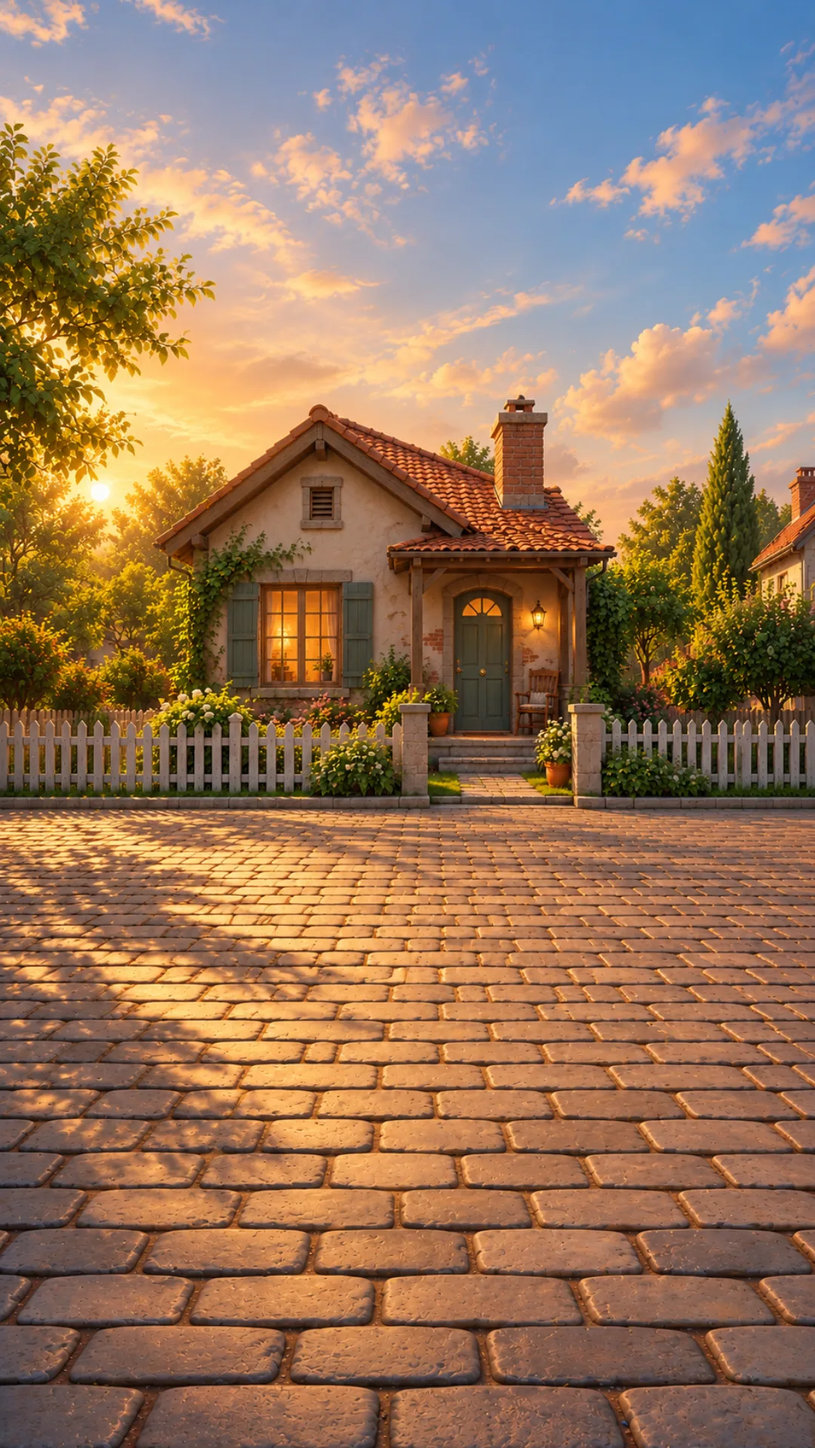
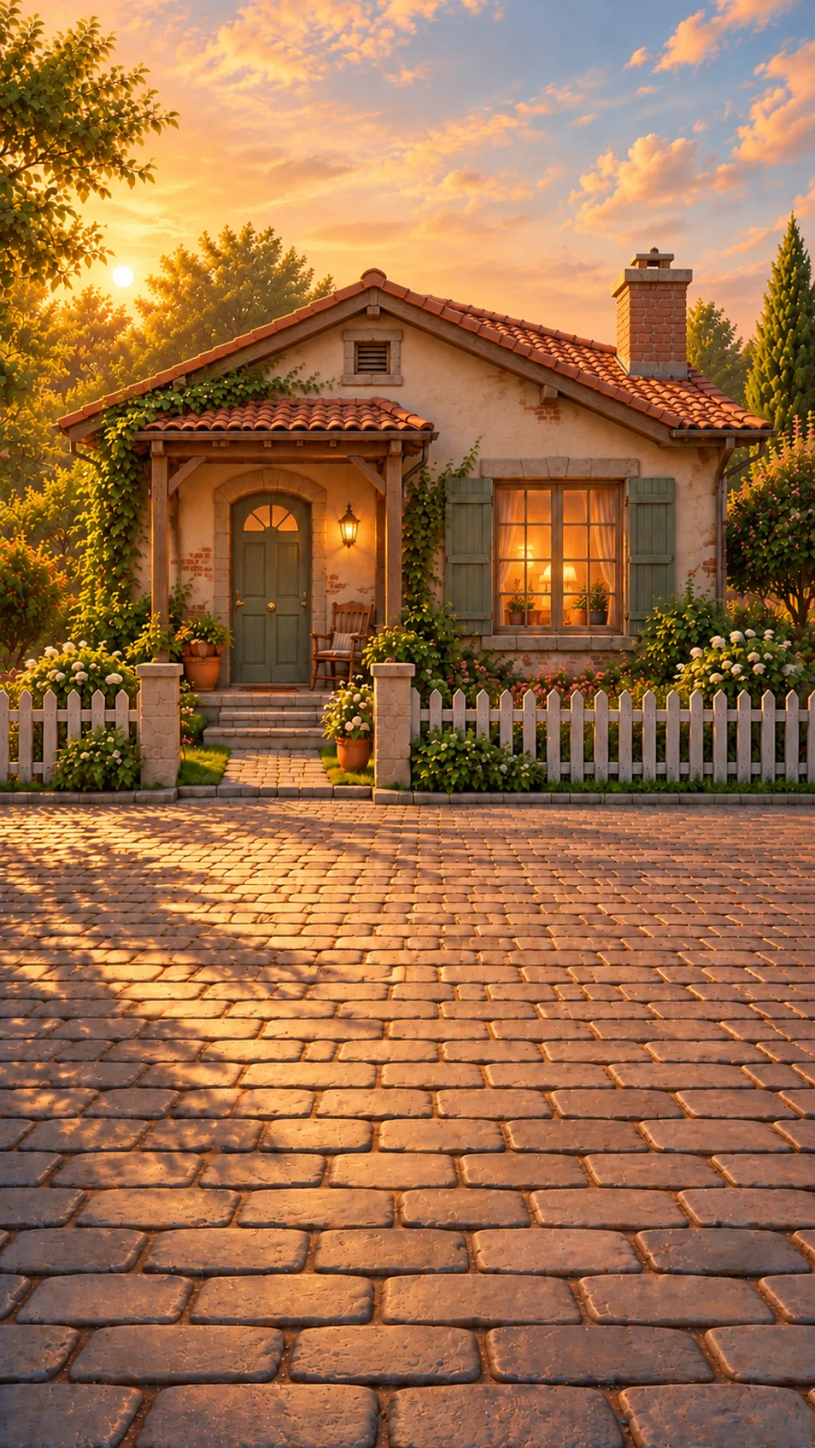
v2: owning a home pays off, the first one comes with the Millionaire ceremony - Living in a home you own adds +8% on top of its tier (as good as renting   the next one up, never better). Rent pays back three times faster ($1M   home in 4h, was 12h): rent was 1% of income and the bot never bought the

diff --git a/src/game/ui/shop/HousingPanel.tsx b/src/game/ui/shop/HousingPanel.tsx
@@ -1,6 +1,6 @@
 import { Home, KeyRound, Lock } from 'lucide-react';
-import { HOUSES } from '../../core/config/housing';
-import { autoIncomePerSecond, globalMultiplier } from '../../core/formulas';
+import { HOUSES, OWNER_HOME_BONUS } from '../../core/config/housing';
+import { autoIncomePerSecond, globalMultiplier, homeBonus, rentPerSecond } from '../../core/formulas';
 import {
   currentHome,
   houseIndex,
@@ -18,8 +18,8 @@ import { Chip, GameButton, Panel, SectionLabel } from '../kit';
 import { Thumb } from './Thumb';
 
 // Homes tab: rent → buy → rent out (docs/game-design-v2.md §4.8). You live in one house; the next
-// one up is the dream; houses you own and left pay rent. Moving up needs the last vehicle of the home
-// you live in (core/state.ts moveUpNeedsVehicle).
+// one up is the dream; houses you own and left pay rent, and there is no moving back into them.
+// Moving up needs the last vehicle of the home you live in (core/state.ts moveUpNeedsVehicle).
 
 const UPCOMING_COUNT = 3;
 
@@ -37,6 +37,8 @@ export function HousingPanel({ onGoVehicles }: { onGoVehicles: () => void }) {
   const income = autoIncomePerSecond(game);
 
   const rent = (house: HouseDef) => perMonth(house.rentPerSecond * multiplier);
+  const ownsHome = ownsHouse(game, home.id);
+  const totalRent = rentPerSecond(game) * multiplier;
   const affordIn = (cost: number) =>
     game.cash < cost && income > 0
       ? t('common.affordIn', { duration: duration(Math.ceil((cost - game.cash) / income)) })
@@ -63,7 +65,7 @@ export function HousingPanel({ onGoVehicles }: { onGoVehicles: () => void }) {
             <SectionLabel>{t('home.current')}</SectionLabel>
             <p className="v2-display text-[17px] leading-tight text-indigo-950 px-1">{name('lifestyle', home)}</p>
             <p className="text-[11px] font-bold text-violet-600 px-1">
-              {t('home.livingBonus', { percent: percent(home.homeBonus) })}
+              {t('home.livingBonus', { percent: percent(homeBonus(game)) })}
             </p>
           </div>
           {renting && (
@@ -72,7 +74,7 @@ export function HousingPanel({ onGoVehicles }: { onGoVehicles: () => void }) {
               {t('home.renting')}
             </Chip>
           )}
-          {ownsHouse(game, home.id) && (
+          {ownsHome && (
             <Chip tone="buy">
               <Home className="w-3 h-3" />
               {t('home.owned')}
@@ -91,6 +93,8 @@ export function HousingPanel({ onGoVehicles }: { onGoVehicles: () => void }) {
               <span className="v2-display text-[14px] tabular-nums">{money(homePrice)}</span>
             </GameButton>
             <p className="text-[11px] font-bold text-slate-500 text-center -mt-1">
+              {t('home.ownerBonus', { percent: percent(OWNER_HOME_BONUS) })}
+              {' · '}
               {t('home.depositCounted', { amount: money(home.moveInCost) })}
             </p>
           </>
@@ -109,7 +113,7 @@ export function HousingPanel({ onGoVehicles }: { onGoVehicles: () => void }) {
               <div className="flex-1 min-w-0">
                 <p className="v2-display text-xl leading-tight text-indigo-950">{name('lifestyle', next)}</p>
                 <p className="text-[12px] font-bold text-violet-600">
-                  {t('home.bonusChange', { percent: percent(home.homeBonus), next: percent(next.homeBonus) })}
+                  {t('home.bonusChange', { percent: percent(homeBonus(game)), next: percent(next.homeBonus) })}
                 </p>
               </div>
             </div>
@@ -136,7 +140,9 @@ export function HousingPanel({ onGoVehicles }: { onGoVehicles: () => void }) {
                 disabled={game.cash < nextPrice}
                 className="min-h-11 -mt-1 py-2 px-4 flex items-center justify-between"
               >
-                <span className="v2-display text-[14px]">{t('home.buyMove')}</span>
+                <span className="v2-display text-[14px]">
+                  {t('home.buyMove')} · +{percent(next.homeBonus + OWNER_HOME_BONUS)}%
+                </span>
                 <span className="v2-display text-[14px] tabular-nums">{money(nextPrice)}</span>
               </GameButton>
             )}
@@ -152,7 +158,9 @@ export function HousingPanel({ onGoVehicles }: { onGoVehicles: () => void }) {
                 </span>
               </GameButton>
             ) : (
-              <p className="text-[11px] font-bold text-slate-500 text-center -mt-1">{rentHint ?? t('home.noRent')}</p>
+              <p className="text-[11px] font-bold text-slate-500 text-center -mt-1">
+                {rentHint ?? (ownsHome ? t('home.willRentOut', { amount: rent(home) }) : t('home.noRent'))}
+              </p>
             )}
           </div>
         </Panel>
@@ -187,7 +195,14 @@ export function HousingPanel({ onGoVehicles }: { onGoVehicles: () => void }) {
 
       {owned.length > 0 && (
         <>
-          <SectionLabel>{t('home.properties')}</SectionLabel>
+          <div className="flex items-end justify-between">
+            <SectionLabel>{t('home.properties')}</SectionLabel>
+            {totalRent > 0 && (
+              <p className="text-[11px] font-black text-emerald-600 px-1">
+                {t('home.totalRent', { amount: perMonth(totalRent) })}
+              </p>
+            )}
+          </div>
           <ul className="flex flex-col gap-2">
             {[...owned].reverse().map((house) => {
               const livingHere = house.id === game.home;
@@ -201,15 +216,6 @@ export function HousingPanel({ onGoVehicles }: { onGoVehicles: () => void }) {
                         {livingHere ? t('home.livingHere') : t('home.rentedOut', { amount: rent(house) })}
                       </p>
                     </div>
-                    {!livingHere && (
-                      <GameButton
-                        tone="soft"
-                        onClick={() => actions.moveHome(house.id)}
-                        className="shrink-0 min-h-11 px-3 v2-display text-[12px]"
-                      >
-                        {renting ? t('home.moveEndsLease') : t('home.moveHere')}
-                      </GameButton>
-                    )}
                   </Panel>
                 </li>
               );

diff --git a/src/game/core/config/housing.ts b/src/game/core/config/housing.ts
@@ -4,7 +4,8 @@ import type { HouseDef } from '../types';
 // and the home scene shows it (with your best vehicle parked out front). Twelve homes, each its own
 // place on screen (decided 2026-10-10; there were 25, many of them looking alike).
 // Renting costs a one-time move-in fee and no recurring rent, so net income never goes negative.
-// The house you live in gives a bonus by its tier; owned houses you moved out of pay rent.
+// The house you live in gives a bonus by its tier (a little more if it is yours); owned houses you
+// moved out of pay rent. You only ever move up: each home has its own vehicles parked out front.
 
 interface HomeSpec {
   name: string;
@@ -23,7 +24,7 @@ const HOMES: HomeSpec[] = [
   { name: 'Newer Rental Flat', image: `${SCENE}/home-5.webp`, moveInCost: 40_000 },
   { name: 'Flat in a Gated Complex', image: `${SCENE}/home-6.webp`, moveInCost: 240_000 },
   { name: 'First Home of Your Own', image: `${SCENE}/home-7.webp`, moveInCost: 650_000 },
-  { name: 'Suburban House with a Garden', image: `${SCENE}/home-8.webp`, moveInCost: 2.5e6 },
+  { name: 'Suburban House with a Garden', image: `${SCENE}/home-8.webp`, moveInCost: 9e6 },
   { name: 'Villa', image: `${SCENE}/home-9.webp`, moveInCost: 2e7 },
   { name: 'Lakeside Glass House', image: `${SCENE}/home-10.webp`, moveInCost: 2e8 },
   { name: 'Beachfront Estate', image: `${SCENE}/home-11.webp`, moveInCost: 2e9 },
@@ -40,11 +41,17 @@ export const BUY_PRICE_PER_MOVE_IN = 25;
 export const HOME_BONUS_PER_TIER = 0.08;
 
 /**
+ * Living in a house you own adds this on top: one tier's worth, so your own home is as good as
+ * renting the next one up and never better. Moving up stays worth it, and so does buying.
+ */
+export const OWNER_HOME_BONUS = HOME_BONUS_PER_TIER;
+
+/**
  * Rent payback (buy price / base rent) grows with price like business paybacks do:
  * hours = RENT_PAYBACK_HOURS_AT_1M × (price / $1M) ^ RENT_PAYBACK_EXPONENT. Tuned with `npm run sim`
  * so rent is a side income, never the main one.
  */
-export const RENT_PAYBACK_HOURS_AT_1M = 12;
+export const RENT_PAYBACK_HOURS_AT_1M = 4;
 export const RENT_PAYBACK_EXPONENT = 0.44;
 
 export function rentPaybackSeconds(buyCost: number) {
@@ -74,6 +81,14 @@ export const STARTING_HOME_ID = HOUSES[0].id;
  * further stays where they are.
  */
 export const CLASS_HOME_FLOOR = [0, 1, 3, 5, 6, 8, 9, 10];
+
+/**
+ * The Millionaire ceremony makes "First Home of Your Own" yours for free (decided 2026-10-12). Nobody
+ * can own a house before it: the cheapest costs more than a Millionaire has ever earned. Nobody can
+ * rent past it either: the way to the next home (pickup, this home's fee, its sedan, the $9M move-in
+ * fee) costs more than the $10M that makes a Millionaire. So the gift is always the home you live in.
+ */
+export const FIRST_OWNED_HOME = { classIndex: 4, houseIndex: 6 };
 
 /**
  * Saves from before 2026-10-10 had 25 houses (`house-1`…`house-25`); each maps to the new home

diff --git a/src/game/core/state.ts b/src/game/core/state.ts
@@ -1,7 +1,7 @@
 import { BUSINESSES } from './config/businesses';
 import { CAREERS } from './config/careers';
 import { STARTING_CASH } from './config/economy';
-import { CLASS_HOME_FLOOR, HOUSES, STARTING_HOME_ID } from './config/housing';
+import { CLASS_HOME_FLOOR, FIRST_OWNED_HOME, HOUSES, STARTING_HOME_ID } from './config/housing';
 import { LIFE_SECONDS } from './config/life';
 import { CLASS_OUTFIT_FLOOR, LIFESTYLE_ITEMS, OUTFITS, STARTING_LIFESTYLE_IDS, VEHICLES } from './config/lifestyle';
 import { ACTIVE_QUESTS, GENERATED_QUEST_SECONDS, QUESTS } from './config/quests';
@@ -71,7 +71,8 @@ export function earn(state: GameStateV2, amount: number): GameStateV2 {
 /**
  * A class-up gives what its story stands in: a hero still below the class's home moves there,
  * rented and free (CLASS_HOME_FLOOR), and gets the class's outfit and the ones before it
- * (CLASS_OUTFIT_FLOOR). Whoever bought ahead keeps what they have.
+ * (CLASS_OUTFIT_FLOOR). Whoever bought ahead keeps what they have. From Millionaire on, the first
+ * home of your own is yours (FIRST_OWNED_HOME).
  */
 export function applyClassFloors(state: GameStateV2): GameStateV2 {
   const homeFloor = CLASS_HOME_FLOOR[Math.min(state.classIndex, CLASS_HOME_FLOOR.length - 1)];
@@ -80,8 +81,15 @@ export function applyClassFloors(state: GameStateV2): GameStateV2 {
   const missing = OUTFITS.slice(0, outfitFloor + 1)
     .map((outfit) => outfit.id)
     .filter((id) => !state.lifestyleOwned.includes(id));
-  if (home === state.home && missing.length === 0) return state;
-  return { ...state, home, lifestyleOwned: [...state.lifestyleOwned, ...missing] };
+  const gift = HOUSES[FIRST_OWNED_HOME.houseIndex].id;
+  const gifted = state.classIndex >= FIRST_OWNED_HOME.classIndex && !state.homesOwned.includes(gift);
+  if (home === state.home && missing.length === 0 && !gifted) return state;
+  return {
+    ...state,
+    home,
+    homesOwned: gifted ? [...state.homesOwned, gift] : state.homesOwned,
+    lifestyleOwned: [...state.lifestyleOwned, ...missing],
+  };
 }
 
 function spend(state: GameStateV2, cost: number): GameStateV2 | null {
@@ -256,9 +264,12 @@ export function buyHome(state: GameStateV2, houseId: string): GameStateV2 | null
   return { ...paid, homesOwned: [...paid.homesOwned, houseId], home: movesIn ? houseId : paid.home };
 }
 
-/** Move into a house you own, for free. A home you leave keeps paying rent if you own it. */
+/**
+ * Move up into a house you own, for free. There is no moving back down: every home has its own
+ * vehicles out front, and a house you left stays rented out.
+ */
 export function moveHome(state: GameStateV2, houseId: string): GameStateV2 | null {
-  if (houseId === state.home || !ownsHouse(state, houseId)) return null;
+  if (houseIndex(houseId) <= houseIndex(state.home) || !ownsHouse(state, houseId)) return null;
   return { ...state, home: houseId };
 }
 

diff --git a/src/game/core/formulas.ts b/src/game/core/formulas.ts
@@ -16,7 +16,7 @@ import {
   TAP_INCOME_SECONDS,
 } from './config/economy';
 import { FETCH_BOTTLES } from './config/scene';
-import { HOUSES } from './config/housing';
+import { HOUSES, OWNER_HOME_BONUS } from './config/housing';
 import { LIFESTYLE_ITEMS } from './config/lifestyle';
 import { UPGRADES } from './config/upgrades';
 import type { BusinessDef, GameStateV2, IncomeMode, QuestDef } from './types';
@@ -88,9 +88,11 @@ export function careerBonus(state: GameStateV2) {
   return bonus;
 }
 
-/** Bonus from the house you live in (by its tier), whether rented or owned. */
+/** Bonus from the house you live in: its tier, plus the owner's extra if it is yours. */
 export function homeBonus(state: GameStateV2) {
-  return HOUSE_BY_ID.get(state.home)?.homeBonus ?? 0;
+  const house = HOUSE_BY_ID.get(state.home);
+  if (!house) return 0;
+  return house.homeBonus + (state.homesOwned.includes(house.id) ? OWNER_HOME_BONUS : 0);
 }
 
 /** Status = your home plus every owned vehicle, outfit and luxury toy. */

diff --git a/src/game/i18n/messages/tr.ts b/src/game/i18n/messages/tr.ts
@@ -191,8 +191,9 @@ export const tr: Messages = {
     properties: 'Mülklerin',
     livingHere: 'Burada yaşıyorsun',
     rentedOut: 'Kirada · +{amount}',
-    moveHere: 'Taşın',
-    moveEndsLease: 'Taşın · kiran biter',
+    totalRent: 'Toplam kira +{amount}',
+    ownerBonus: 'Kendi evin olunca +%{percent} ek bonus',
+    willRentOut: 'Taşınınca evin kiraya verilir: +{amount}',
     forSale: 'Satılık önceki evler',
     rentsFor: 'Kiraya verince +{amount}',
     buy: 'Satın al',
@@ -279,7 +280,7 @@ export const tr: Messages = {
       photo: 'Bu... Rıza Amca mı? Babamı tanıyor muydu?',
     },
     c4: {
-      hero: 'Anne... Milyoner oldum.',
+      hero: 'Anne... Milyoner oldum. Bir ev aldım, tapusunda benim adım yazıyor.',
       mom: 'Bahçeye iki sandalye koydum. Gel de otur artık.',
       riza: 'Bu fotoğraf... Mehmet\'in dükkânı bu.',
       riza2: 'Sen Mehmet\'in oğlusun. Nasıl görmedim?',

diff --git a/src/game/i18n/messages/en.ts b/src/game/i18n/messages/en.ts
@@ -192,8 +192,9 @@ export const en = {
     properties: 'Your properties',
     livingHere: 'You live here',
     rentedOut: 'Rented out · +{amount}',
-    moveHere: 'Move here',
-    moveEndsLease: 'Move here · your lease ends',
+    totalRent: 'Total rent +{amount}',
+    ownerBonus: '+{percent}% extra once it is yours',
+    willRentOut: 'When you move, this home is rented out: +{amount}',
     forSale: 'Earlier homes for sale',
     rentsFor: 'Rents out for +{amount}',
     buy: 'Buy',
@@ -280,7 +281,7 @@ export const en = {
       photo: 'Is that... Old Ray? He knew my dad?',
     },
     c4: {
-      hero: "Mom... I'm a millionaire.",
+      hero: "Mom... I'm a millionaire. I bought a house. My name is on the deed.",
       mom: 'I put two chairs in the garden. Come and sit with me.',
       riza: "This photo... That's Martin's shop.",
       riza2: "You're Martin's boy. How did I not see it?",

diff --git a/docs/session-handoff.md b/docs/session-handoff.md
@@ -20,12 +20,12 @@ Yeni bir oturumda projeye hızlı dönmek için güncel durum özeti. Oyun v2 ol
 
 ## Durum (oyunda olanlar)
 
-- **Çekirdek ve simülatör:** İşletmeler (+ yükseltmeler), yöneticiler, kariyer, statü eşyaları (12 araç; **ev–araç zinciri**, 2026-10-11: araç evinde açılır, evin son aracı olmadan sonraki eve geçilmez, törenin bedava taşıması istisna; [game-design §4.4](./game-design-v2.md)), konut (kirala → satın al → kiraya ver), 8 sınıf (2026-10-08: Multimilyoner kalktı, İşçi ile Milyoner arasına Orta Sınıf $1M girdi, Milyoner $10M), yaş ve ömür (17 → 80, 1 dk ≈ 3 hafta; 2026-10-11'de 97'den indi, ömür ~17 saatlik oyun), miras, hedefler. İşletme ana gelir: Çalıştır turda en az $1, yavaşlatma fiyatlardan (Gündelikçi 4,5 dk, İşçi 15 dk, Orta Sınıf ilk oturumun sonu, Milyoner dönüş oturumu). `npm run sim` 11 tempo + 4 his hedefi.
+- **Çekirdek ve simülatör:** İşletmeler (+ yükseltmeler), yöneticiler, kariyer, statü eşyaları (12 araç; **ev–araç zinciri**, 2026-10-11: araç evinde açılır, evin son aracı olmadan sonraki eve geçilmez, törenin bedava taşıması istisna; [game-design §4.4](./game-design-v2.md)), konut (kirala → satın al → kiraya ver; 2026-10-12: kendi evinde oturana +%8 ek bonus, kira 3 kat hızlı, eski eve geri taşınma yok; [game-design §4.8](./game-design-v2.md)), 8 sınıf (2026-10-08: Multimilyoner kalktı, İşçi ile Milyoner arasına Orta Sınıf $1M girdi, Milyoner $10M), yaş ve ömür (17 → 80, 1 dk ≈ 3 hafta; 2026-10-11'de 97'den indi, ömür ~17 saatlik oyun), miras, hedefler. İşletme ana gelir: Çalıştır turda en az $1, yavaşlatma fiyatlardan (Gündelikçi 4,5 dk, İşçi 15 dk, Orta Sınıf ilk oturumun sonu, Milyoner dönüş oturumu). `npm run sim` 11 tempo + 4 his hedefi.
 - **Önsöz:** 6 karelik görsel roman (annesini doğum gününde aradığı için kovulma → lojmandan çıkış → otogarda söz → ara sokakta Şans). Yeni oyuncu oyundan önce görür.
 - **Ana ekran:** Tam ekran ara sokak; kahraman 4 pozla, yanında Şans. Şişe/kutu toplama (her biri ~2,5 sn gelir), Şans'ın 5–10 dakikada bir cüzdan getirmesi (sahibine verilir, teşekkür ödülü). Paralar kavisle bakiyeye uçar. Renkli üst bar (aylık gelir, sınıf, yaş, ayarlar), 3D ikonlu alt menü, sekmeler sahnenin üstünde sayfa.
 - **Ekranlar:** İşletmeler (adet, aylık kazanç, Çalıştır, kilometre taşı çubuğu, 3 yükseltme, her işletmeye kendi yöneticisi: portre + işe alma kartı + cümleler), Kariyer, Alışveriş/Evler, Ayarlar (dil, gizlilik seçenekleri). Ana ekranda Hedefler kartı (3 hedef, ödül; her hedefte resim, nerede yapıldığı ve "Git": sekmeyi açıp düğmeyi parlatır; sekme içinde hedef şeridi). Ortak görünüm `ui/kit.tsx`, yazı tipi Fredoka.
 - **Sınıf törenleri (1.10):** 7 tören, görsel roman (16 ifade portresi, çatı katı ve fotoğraf kareleri), "Önce / Şimdi" kartı; tören sırasında saat durur. İşçi töreninde Nevin Hanım ve torunu Defne (cüzdan zinciri; portreleri henüz yok, isim etiketiyle konuşuyorlar). Annenin 11 mesajı dönüş oturumlarında (20 saatte bir). Metinler story §4.
-- **Sahne (1.6, 2026-10-10):** arka plan oturulan ev, o evin izin verdiği en iyi araç önünde park eder; taşınınca arka plan yumuşak geçer ve "Yeni evin" etiketi çıkar, yeni araç kayarak gelir. Ev 25 → 12 (eski kayıtlar taşınır); sınıf töreni hikâyenin evine taşır (Gündelikçi'de Rıza Amca minibüsünü verir). Kıyafet (2026-10-11): mağazada hikâyenin 4 kıyafeti, kahraman en iyisini giyer, tören sınıfınkini bedava verir; toplanacaklar ve Şans'ın tasması sınıfı izler (`ui/scene/stages.ts`). Yeni stilde olanlar: iş kıyafeti, **12 aracın hepsi** (önü sağa, 2026-10-12) ve **12 evin hepsi** (ev 2–12 derin zeminli yeni görsellerle, 2026-10-12; ev 7'de ev küçük ve alçak kaldı, araç kapatıyor: yeniden üretilmesi önerildi) ([art-prompts-v2.md](./art-prompts-v2.md) §1). Yerleşim metre ölçeğiyle (aşağıda "Sahne yerleşimi planı").
+- **Sahne (1.6, 2026-10-10):** arka plan oturulan ev, o evin izin verdiği en iyi araç önünde park eder; taşınınca arka plan yumuşak geçer ve "Yeni evin" etiketi çıkar, yeni araç kayarak gelir. Ev 25 → 12 (eski kayıtlar taşınır); sınıf töreni hikâyenin evine taşır (Gündelikçi'de Rıza Amca minibüsünü verir). Kıyafet (2026-10-11): mağazada hikâyenin 4 kıyafeti, kahraman en iyisini giyer, tören sınıfınkini bedava verir; toplanacaklar ve Şans'ın tasması sınıfı izler (`ui/scene/stages.ts`). Yeni stilde olanlar: iş kıyafeti, **12 aracın hepsi** (önü sağa, 2026-10-12) ve **12 evin hepsi** (ev 2–12 derin zeminli yeni görsellerle, 2026-10-12) ([art-prompts-v2.md](./art-prompts-v2.md) §1). Yerleşim metre ölçeğiyle (aşağıda "Sahne yerleşimi planı").
 - **Bildirimler (1.19):** annenin mesajı ve kasa dolunca Şans; günde en fazla bir, 10:00–21:00; izin ilk törenden sonra; Ayarlar'da aç/kapa. Telefonda henüz denenmedi.
 - **Ödül kartları:** Çevrimdışı kazanç (tavan sınıfla büyür: 10 dk → 2 sa), Şans'ın cüzdanı, yönetici işe alma.
 - **Rehber (1.12, 2026-10-09):** Rıza Amca ilk dakikalarda kısa balonlarla ve işaret eden elle yönlendirir (şişe → ödül → iş → Çiçek Tezgâhı → isim → Çalıştır → yönetici); ilk tezgâhtan sonra kahramanın adını sorar (`ui/guide/`). Sürüm 25'te yok, sonraki AAB'de.
@@ -42,7 +42,7 @@ Amaç: kahraman, Şans, araç ve ev her kombinasyonda aynı ölçekte ve birbiri
 2. **[x] Araba şeridi geride, gerçek boyda:** tekerlekler y %62 (kahramanın ~2,5 m arkası), şerit x %13–89 = 2,75 m. İlk plandaki şerit (y %67) 2,0 m'ydi: hatchback'ten büyük her araba küçültülüyor, en pahalısı en çok küçülüyordu. Bisiklet ve skuter kahramanın yanında (y %70).
 3. **[x] Burundan hizalama, aynalama yok:** aracın burnu x %89'da sabit, fazla uzunluk kahramanın arkasına gider; ön yüz hep açıkta. Bütün araç görselleri önü sağa; ne araç ne arka plan aynalanır. Tek istisna çadır: iki teker solda, **önü sola** durur (şeridin `facesLeft`'i; burun x %14'te, arkası kahramanın arkasında) ve sağdan gelir.
 4. **[x] Boy gerçek yükseklikten:** `VEHICLE_SHAPE.metres` görselin kutusunun kapsadığı her şeyin yüksekliği (hatchback'te anten, SUV'da tavan rayı, motosiklette aynalar dahil). Genişlik = boy × görselin oranı; 2,75 m'yi aşan görsel küçültülür (şimdi yalnızca pikap ve arazi aracı, ×0,96). Araç başına oran sınırı [art-prompts-v2.md §2](./art-prompts-v2.md).
-5. **[ ] Görseller (kullanıcı, GPT):** **araçlar tamam (12/12 oyunda).** **Evler de oyunda (12/12, 2026-10-12)**; derin zemin, araç şeridi varsayılan y %62. Ev 6–12'ye deneme görsellerinde kendi iki aracıyla bakıldı: 6, 8, 9, 11, 12 iyi; **ev 7 (İlk Kendi Evin) yeniden üretilmeli** (ev %28–53 bandında, pikap çatı dışında her şeyi kapatıyor), ev 10 (göl evi) sınırda (arazi aracı sol kanadı kapatıyor) ([art-prompts-v2.md §1](./art-prompts-v2.md)). Her ev yalnızca kendi iki aracına göre düşünülür. Çadır kalıyor (araba gelmez).
+5. **[ ] Görseller (kullanıcı, GPT):** **araçlar tamam (12/12 oyunda).** **Evler de oyunda (12/12, 2026-10-12)**; derin zemin, araç şeridi varsayılan y %62. Ev 6–12'ye deneme görsellerinde kendi iki aracıyla bakıldı: 6–9, 11, 12 iyi (ev 7 yeniden üretildi: ev büyüdü, kapı ve sundurma solda açıkta; kaynak `home-7-first-house-layout-v2.png`); ev 10 (göl evi) sınırda (arazi aracı sol kanadı kapatıyor) ([art-prompts-v2.md §1](./art-prompts-v2.md)). Her ev yalnızca kendi iki aracına göre düşünülür. Çadır kalıyor (araba gelmez).
 6. **[ ] Ev başına yerleşim ve telefonda son ayar:** her yeni ev gelince laboratuvarda bakılır, o eve özel araç şeridi ve ışık `HOME_ART`'a yazılır; kahramanın ve Şans'ın yatay yeri de ev başına kaydırılabilir (`castX`; ayak çizgisi ve boy her evde sabit). Ev 2–5'te kahraman %7 sağda (minibüs ve kapılar açıkta kalsın diye); laboratuvarda bakıldı, telefonda bakılmadı. Sonra S24+ üzerinde tek tek bakılır. Araç gölgesinin görselden çıkarılıp sahnede çizilmesi de burada.
 
 Ekran haritası (resmin oranı): üst %15 üst bar · %15–37 evin kimliği · en çok %55 duvarın zemine değdiği çizgi · %62 araba şeridi (x %13–89) · %70 iki teker şeridi · %73,5 kahraman (x %40) ve Şans (x %66) · %77–87 toplanacaklar · alt %10 menü · yatay güvenli alan x %12–88.
@@ -74,7 +74,7 @@ Yeniden ayarlandı, kullanıcı telefonda deneyecek; açık sorular [discussion-
 
 0. **Hayat anlarının izi ana ekranda** (öneri, karar bekliyor): Defne ve kızından mesajlar, aile albümü ([story-v2.md §7](./story-v2.md)).
 0. **Konuşulacak kalanlar:** genel gözden geçirmenin geri kalanı (ilk oturum, yaş temposu, ev 7'nin adı, eskimiş belgeler) [discussion-notes.md §8](./discussion-notes.md)'de; hikâyenin ilerlemesi konuşuldu (2026-10-11), diğerleri kararlaştırılmadı.
-1. **Görseller gelince oyuna bağlamak:** araçlar ve 12 ev bağlandı; sıradaki ev 7'nin yenisi, kıyafet 3, hikâye kareleri (`ceremonyScript.ts`). Liste [art-brief-v2.md](./art-brief-v2.md). Yeni ev gelince: `public/assets/scene/home-N.webp` (1080 px genişlik), `housing.ts`'te görsel, gerekirse `stages.ts` `HOME_ART`'a yerleşim; DEV → Sahne laboratuvarı'ndan bakılır. Araçta `scripts/cutout-vehicle.sh` ve `VEHICLE_SHAPE`.
+1. **Görseller gelince oyuna bağlamak:** araçlar ve 12 ev bağlandı; sıradaki kıyafet 3, hikâye kareleri (`ceremonyScript.ts`). Liste [art-brief-v2.md](./art-brief-v2.md). Yeni ev gelince: `public/assets/scene/home-N.webp` (1080 px genişlik), `housing.ts`'te görsel, gerekirse `stages.ts` `HOME_ART`'a yerleşim; DEV → Sahne laboratuvarı'ndan bakılır. Araçta `scripts/cutout-vehicle.sh` ve `VEHICLE_SHAPE`.
 2. **Telefonda deneme:** törenler (DEV → "Töreni oynat" 1–7; sahne tören bitince değişmeli), annenin mesajı, bildirim ve "Deneme bildirimi (5 sn)", Firebase DebugView (`adb shell setprop debug.firebase.analytics.app com.prestigelife.idletycoon`). Yeni yerel eklentiler olduğu için `npm run phone -- --install`.
 3. **İmzalı v2 AAB → kapalı test kanalı:** ilk v2 AAB alındı (2026-10-09, sürüm kodu 25, `versionName` 2.0, İşçi sahnesi dahil; `~/Downloads/prestige-life-v2-25.aab`. 24 Play'e yüklenmişti; Play'in RevenueCat SDK uyarısı yüzünden eklenti 13.7.3'e güncellendi). Yükleme kullanıcıda. Kapalı testin 14 günü ~2026-10-20'de doluyor; testçiler listede kalmalı.
    Sürüm derleme: sürüm kodunu artır (`android/app/build.gradle`), sonra `VITE_DEV_MENU=false VITE_ADMOB_TESTING=false npm run build:v2 && npx cap sync android`, ardından `android/`'da `./gradlew bundleRelease` (JAVA_HOME Android Studio'nun Java'sı). Ortam değişkenleri şart: `.env.v2` DEV menüsünü, `.env.local` test reklamını açık tutuyor.
@@ -86,7 +86,7 @@ Yeniden ayarlandı, kullanıcı telefonda deneyecek; açık sorular [discussion-
 - **Play ikonu ve özellik grafiği (2026-10-09):** `icon-512.png` (fal.ai nano-banana-pro, yarı sokak / yarı takım elbise + Şans; 1024'lük kaynağı `art/store-v2/icon-1024.png`) ve `feature-tr.jpg` / `feature-en.jpg` (1024×500, `feature.mjs`). Uygulamanın telefondaki ikonu (`android/.../mipmap-*`) hâlâ v1'inki; istenirse bu ikondan üretilir.
 
 - **Telefonda hayat anlarını denemek:** DEV → "Hayat anını oynat" 25 / 28 / 31; 31'den sonra isim sorusu DEV'den oynatınca gelmez (gerçek akışta gelir).
-- **Görselleri GPT ile üretmeye devam:** araçlar ve evler oyunda; sıradaki ev 7'nin yeniden üretimi (ev daha büyük ve yukarıda), sonra kıyafet 3.
+- **Görselleri GPT ile üretmeye devam:** araçlar ve evler oyunda; sıradaki kıyafet 3.
 - **Telefonda İşçi sahnesini denemek:** DEV → "Töreni oynat" 2; tören bitince daire önü, iş kıyafeti ve bozuk paralar gelmeli. Boy/konum kötü görünürse söyle.
 - **Telefonda törenleri, sahne geçişini ve bildirimi denemek** (yukarıda 2).
 - **Telefonda gerçek test reklamını denemek:** DEV → "Test reklamı izle"; Google'ın "Test Ad" reklamı açılmalı, sonuç "rewarded" olmalı.

diff --git a/docs/game-design-v2.md b/docs/game-design-v2.md
@@ -131,7 +131,7 @@ En iyi evde yaşanıp tüm eşyalar alındığında statü toplamı +%241 (×3,4
 | 5 Yenice Daire ($40K) | Hatchback | SUV $90K | SUV |
 | 6 Sitede Daire ($240K) | SUV | Pikap $300K | Pikap |
 | 7 İlk Kendi Evin ($650K) | Pikap | Makam sedanı $700K | Makam sedanı |
-| 8 Banliyö Evi ($2,5M) | Makam sedanı | Spor coupe $4M | Spor coupe |
+| 8 Banliyö Evi ($9M) | Makam sedanı | Spor coupe $4M | Spor coupe |
 | 9 Villa ($20M) | Spor coupe | Arazi aracı $25M | Arazi aracı |
 | 10 Göl Evi ($200M) | Arazi aracı | Süper araba $150M | Süper araba |
 | 11 Sahil Malikânesi ($2B) | Süper araba | Grand lüks $1B | Grand lüks |
@@ -180,14 +180,14 @@ Tek ev kavramı (rapor §5). Oyuncu her zaman tek bir evde yaşar; **ana ekranı
 | **Kirala ve taşın** | Tek seferlik taşınma bedeli (depozito + ilk kira). Sadece bir üst kademedeki ev; yaşanan evin son aracı alınmış olmalı (§4.4). | O eve taşınırsın. Eski kiran biter (aynı anda tek kiralık ev). |
 | **Satın al** | Fiyat = taşınma bedeli × 25. İçinde kiracı olduğun evi alırken ödediğin taşınma bedeli düşülür. | Bir üst kademedeki evi alırsan taşınırsın. Yaşadığın evden daha alttaki bir evi alırsan kiraya verilir. |
 | **Kiraya ver** | Kendiliğinden | Sahip olunan ama içinde yaşanmayan her ev kira getirir; çevrimdışı da işler (yönetici kuralıyla: %50, 2 saat tavan). |
-| **Taşın** | Ücretsiz | Sahip olduğun herhangi bir eve taşınabilirsin. Kiradaysan kiran biter. |
+| **Geri taşınma** | Yok (karar 2026-10-12) | Yalnızca yukarı taşınılır: her evin önünde kendi araçları durur (§4.4), çıktığın kendi evin kirada kalır. |
 
 - **Düzenli kira gideri yok** (karar 2026-10-07). Net gelir hiçbir zaman eksiye düşmez. Kiracı olduğun "Kiracısın" etiketi ve taşınma bedeliyle hissettirilir.
-- **12 ev (karar 2026-10-10; önce 25'ti, çoğu birbirine benziyordu):** her ev sahnede ayrı bir yer, her taşınma görünür bir değişim. Taşınma bedelleri: Çadır 0 · Eski Minibüs $1,2K · Kiralık Oda $2,5K · Eski Kiralık Daire $9K · Yenice Kiralık Daire $40K · Sitede Daire $240K · İlk Kendi Evin $650K · Bahçeli Banliyö Evi $2,5M · Villa $20M · Göl Kenarında Cam Ev $200M · Sahil Malikânesi $2B · Büyük Malikâne $20B (`config/housing.ts`). Satın alma fiyatı bedelin 25 katı, yani bedel fiyatın %4'ü.
+- **12 ev (karar 2026-10-10; önce 25'ti, çoğu birbirine benziyordu):** her ev sahnede ayrı bir yer, her taşınma görünür bir değişim. Taşınma bedelleri: Çadır 0 · Eski Minibüs $1,2K · Kiralık Oda $2,5K · Eski Kiralık Daire $9K · Yenice Kiralık Daire $40K · Sitede Daire $240K · İlk Kendi Evin $650K · Bahçeli Banliyö Evi $9M · Villa $20M · Göl Kenarında Cam Ev $200M · Sahil Malikânesi $2B · Büyük Malikâne $20B (`config/housing.ts`). Satın alma fiyatı bedelin 25 katı, yani bedel fiyatın %4'ü.
 - **Sadece kiralık evler:** 1–6 (çadırdan sitedeki daireye). Satın alma 7. evden ("İlk Kendi Evin") itibaren açılır; ilk kendi ev bir dönüm noktasıdır.
-- **Sınıfın evi (karar 2026-10-10):** Her sınıf töreni, o sınıfın hikâyedeki evinden geride kalan kahramanı oraya taşır (kiracı, bedava): Gündelikçi → Rıza Amca'nın minibüsü, İşçi → eski kiralık daire, Orta Sınıf → sitede daire, Milyoner → ilk kendi evin (kiralık), Milyarder → villa, Multimilyarder → göl evi, En Zengin → sahil malikânesi (`CLASS_HOME_FLOOR`). Böylece tören metinleri ("Artık bir dairem var") hep doğru; mağazadan önden giden kendi evinde kalır. Sahne yeni evi tören bitince gösterir.
-- **Ev bonusu:** Yaşadığın evin kademesine bağlı: n. ev tüm gelire +%8 × (n−1) verir (6. ev +%40, 12. ev +%88). Kiralık da olsa sahip olunan da olsa aynı. Sahip olunan evler bonus biriktirmez; onların ödülü kira geliridir.
-- **Kira geliri:** Taban kira/sn = fiyat / geri dönüş süresi. Geri dönüş, işletmelerdeki gibi fiyatla büyür: saat = 1 × (fiyat / $1M)^0,44 (10. ev ~3,4 sa, 15. ev ~32 sa). Tüm gelir çarpanları kiraya da uygulanır. Simülasyonda kira gelirin medyan ~%8'i, nesil sonunda en fazla ~%25'i: işletmelerle yarışmıyor ama görünür.
+- **Sınıfın evi (karar 2026-10-10):** Her sınıf töreni, o sınıfın hikâyedeki evinden geride kalan kahramanı oraya taşır (kiracı, bedava): Gündelikçi → Rıza Amca'nın minibüsü, İşçi → eski kiralık daire, Orta Sınıf → sitede daire, Milyoner → ilk kendi evin (**hediye, sahipli**; karar 2026-10-12, `FIRST_OWNED_HOME`: tören öncesinde ev sahibi olmak mümkün değil, en ucuz ev $16,25M ve Milyoner eşiği $10M. Törenden önce ev 8'e kiraya çıkmak da mümkün değil: pikap + ev 7 kirası + makam sedanı + ev 8'in $9M'lik taşınma bedeli $10,65M eder, bu yüzden bedel $2,5M'den $9M'ye çıktı; hediye hep oturulan ev olur, kiracı evinin sahibi olur), Milyarder → villa, Multimilyarder → göl evi, En Zengin → sahil malikânesi (`CLASS_HOME_FLOOR`). Böylece tören metinleri ("Artık bir dairem var") hep doğru; mağazadan önden giden kendi evinde kalır. Sahne yeni evi tören bitince gösterir.
+- **Ev bonusu:** Yaşadığın evin kademesine bağlı: n. ev tüm gelire +%8 × (n−1) verir (6. ev +%40, 12. ev +%88). Bonuslar üst üste eklenmez: yalnızca oturduğun ev sayılır. **Kendi evinde oturuyorsan +%8 ek** (`OWNER_HOME_BONUS`, karar 2026-10-12): kendi evin, bir üst kademedeki kiralık evle aynı bonusu verir, daha fazlasını değil; böylece yukarı taşınmak da yeni evi satın almak da hep kazandırır (1,5 kat denendi: oyuncu eski evinde kalıyor, Multimilyarder hedefi bozuluyordu). Çıktığın kendi evlerin bonus vermez; onların ödülü kira geliridir.
+- **Kira geliri:** Taban kira/sn = fiyat / geri dönüş süresi. Geri dönüş, işletmelerdeki gibi fiyatla büyür: saat = 4 × (fiyat / $1M)^0,44 (ev 7 ~14 sa, ev 12 ~1.290 sa; 2026-10-12'de 12'den 4'e indi: 12'de kira gelirin ortanca %1'iydi ve bot oturduğu evi hiç almıyordu). Tüm gelir çarpanları kiraya da uygulanır. Simülasyonda kira gelirin ortanca ~%7'si, en fazla ~%19'u; bot oturumların ~%40'ında kendi evinde oturuyor: işletmelerle yarışmıyor ama görünür.
 - **Nesil:** Emeklilikte evler sıfırlanır; varis çadırdan başlar (2. nesil açılışı Faz 2.1'de tartışılacak: [discussion-notes.md](./discussion-notes.md) §4).
 - Hikaye bağı: sokak (çadır) → Gündelikçi kiralık oda → İşçi Sınıfı ilk kiralık daire → ilk kendi evin → Orta Sınıf: annene eski aile evi ([story-v2.md](./story-v2.md) §4).
 

diff --git a/docs/rebuild-plan.md b/docs/rebuild-plan.md
@@ -105,7 +105,7 @@ Aynı formülleri hem oyun hem simülatör kullanır, bu yüzden simülasyon son
   - Tamam (2026-10-08): `ui/scene/Scene.tsx`: tam ekran ara sokak, kahramanın 4 pozu (bekleme, toplama, sevinç, Şans'ı okşama; yumuşak geçiş), Şans (dokununca okşama + kalp), şişe/kutu toplama ([game-design §4.7](./game-design-v2.md)), Şans'ın cüzdan getirmesi. Görsel yerleşimi `ui/scene/coverFit.ts` (önsözle ortak).
   - Tamam (2026-10-09): sahne sınıfı izler (`ui/scene/stages.ts`): her sınıfın arka planı, kıyafet pozları, toplanacakları, Şans'ın tasması; tören bitince yeni aşamaya geçer, sonraki aşama tören sırasında yüklenir. Görseli olmayan aşama bir öncekini kullanır. Oyunda: sokak, minibüs (Gündelikçi).
   - Tamam (2026-10-10): **arka plan oturulan ev, en iyi araç önünde park eder** (`stages.ts` `homeArt`, `parkedVehicle`). Ev 25 → 12 (`config/housing.ts`, eski kayıtlar `LEGACY_HOUSE_TO_HOME` ile taşınır); sınıf töreni hikâyenin evine taşır (`CLASS_HOME_FLOOR`; Gündelikçi töreninde Rıza Amca minibüsünü verir). Taşınınca arka plan yumuşak geçer, kahraman sevinir, "Yeni evin: …" etiketi; yeni araç sahneye kayarak gelir ("Yeni aracın: …"). Tören sürerken sahne eski evde kalır. Ev bonusu kademe başına %8; sim 11/11 tempo + 4/4 his.
-  - Kalan: ev 7'nin yeniden üretimi (12 araç ve 12 ev oyunda, 2026-10-12) ([art-brief-v2.md](./art-brief-v2.md) §4.2, §4.6), 3 kıyafet × 4 poz, toplanacaklar, Şans tasmaları, yağmur/ortam sesi. Kıyafetler (2026-10-11): mağazada 4 hikâye kıyafeti, kahraman en iyisini giyer (game-design §4.4). Araç 16 → 12 (2026-10-11, ilk 5 görsel oyunda) ve ev–araç zinciri (araç evinde açılır, evin son aracı olmadan sonraki eve geçilmez; game-design §4.4). Sahne yerleşimi (2026-10-11): sahnede metre ölçeği var, araç boyu gerçek yüksekliğinden hesaplanır; arabalar kahramanın ~2,5 m arkasında gerçek boyda, burundan hizalı (şerit 2,75 m), bisiklet ve skuter kahramanın yanında; araç görselleri önü sağa (ilk 4'ü oyunda); ilk üç arka plan aynalı ve sığ zeminli; ev başına park yeri ve ışık tonu; DEV → Sahne laboratuvarı. Kalan: SUV ve araç 6–10, derin zeminli ev arka planları (eski daire yeniden), ev başına yerleşim, gölgenin sahnede çizilmesi, telefonda son ayar (plan ve sayılar: [session-handoff.md](./session-handoff.md) "Sahne yerleşimi planı"). Yeni araç soldan sürerek gelir.
+  - Kalan (12 araç ve 12 ev oyunda, 2026-10-12; [art-brief-v2.md](./art-brief-v2.md) §4.2, §4.6): 3 kıyafet × 4 poz, toplanacaklar, Şans tasmaları, yağmur/ortam sesi. Kıyafetler (2026-10-11): mağazada 4 hikâye kıyafeti, kahraman en iyisini giyer (game-design §4.4). Araç 16 → 12 (2026-10-11, ilk 5 görsel oyunda) ve ev–araç zinciri (araç evinde açılır, evin son aracı olmadan sonraki eve geçilmez; game-design §4.4). Sahne yerleşimi (2026-10-11): sahnede metre ölçeği var, araç boyu gerçek yüksekliğinden hesaplanır; arabalar kahramanın ~2,5 m arkasında gerçek boyda, burundan hizalı (şerit 2,75 m), bisiklet ve skuter kahramanın yanında; araç görselleri önü sağa (ilk 4'ü oyunda); ilk üç arka plan aynalı ve sığ zeminli; ev başına park yeri ve ışık tonu; DEV → Sahne laboratuvarı. Kalan: SUV ve araç 6–10, derin zeminli ev arka planları (eski daire yeniden), ev başına yerleşim, gölgenin sahnede çizilmesi, telefonda son ayar (plan ve sayılar: [session-handoff.md](./session-handoff.md) "Sahne yerleşimi planı"). Yeni araç soldan sürerek gelir.
 - [~] **1.7 HUD ve ekranlar:**
   - Tamam (2026-10-08): renkli üst bar (`TopBar`: para, aylık otomatik gelir, sınıf rozeti, yaş, sınıf çubuğu, ayarlar dişlisi); 3D ikonlu alt menü (`BottomNav`); sekmeler sahnenin üstünde sayfa (`TabSheet`); sekme ekranları yeni görünümde (`ui/kit.tsx`). İşletme kartı netleştirildi: "7 adet", aylık kazanç / "yöneticiyle +$X/ay", "▶ Çalıştır", kilometre taşı çubuğu, yöneticinin ne yaptığı. Her işletmeye kendi yöneticisi (portre, işe alma kartı, portreye dokununca konuşma; [story-v2 §3](./story-v2.md)). Ayarlar sayfası (dil, gizlilik seçenekleri).
   - Kalan: ilerleme çubuğunun ucunda somut ödül (Rich Inc. dersi), paranın fiziksel hali (cüzdan → kasa → banka kasası → altın oda; rapor §6.3).

diff --git a/docs/story-v2.md b/docs/story-v2.md
@@ -134,7 +134,7 @@ Metinler oyunda: `src/game/i18n/messages/*` → `ceremony.c1…c7`; senaryo (kon
 | 1 | Gündelikçi ($1K, ~4,5 dk) | Kahraman: *"Merak etme anne, iyiyim. Bugün sıcak çorba içtim."* · Anne (telefon): *"Sesin güzel geliyor oğlum. Bunu duymak yetti."* · Rıza: *"Eski minibüsüm boşta duruyor. Çadırdan iyidir, anahtar senin."* · Rıza: *"Sen birine çok benziyorsun evlat... Neyse, boş ver."* | Rıza kimi hatırlıyor? Tören bitince minibüse taşınır | Portreler |
 | 2 | İşçi Sınıfı ($100K, ~15 dk) | Nevin Hanım: *"Cüzdanımı Şans getirmiş, değil mi? İçinde rahmetli eşimin fotoğrafı vardı."* · Defne: *"Babaannem seni bir haftadır arıyor. Sana kurabiye yaptı, hâlâ sıcak."* · Kahraman: *"Ben bir şey yapmadım. Bulan Şans'tı."* · Kahraman: *"Anne, artık bir dairem var. Kapısı bile kilitleniyor!"* · Anne: *"Ev deyince eski evimiz geldi aklıma. Babanın defteri hâlâ çatı katında."* | Defne (tanışma), defter | Daire kapısı (H1, bekliyor) |
 | 3 | Orta Sınıf ($1M, ~30 dk, ilk oturumun sonu) | Kahraman: *"Anne... Eski evimizi geri aldım."* · Anne (ağlayan-mutlu): *"Erik ağacı... duruyor mu hâlâ?"* · Anlatım (çatı katı): *"Defter, çatı katında onu bekliyordu."* · *"Sayfaların arasından bir fotoğraf düştü."* · Kahraman (fotoğraf): *"Bu... Rıza Amca mı? Babamı tanıyor muydu?"* | Soru açık kalır | Çatı katı, eski fotoğraf |
-| 4 | Milyoner ($10M, dönüş oturumu) | Kahraman: *"Anne... Milyoner oldum."* · Anne: *"Bahçeye iki sandalye koydum. Gel de otur artık."* · Rıza (fotoğraf): *"Bu fotoğraf... Mehmet'in dükkânı bu."* · *"Sen Mehmet'in oğlusun. Nasıl görmedim?"* | Soru kapanır | Eski fotoğraf |
+| 4 | Milyoner ($10M, dönüş oturumu) | Kahraman: *"Anne... Milyoner oldum. Bir ev aldım, tapusunda benim adım yazıyor."* (ilk kendi evin törenle gelir) · Anne: *"Bahçeye iki sandalye koydum. Gel de otur artık."* · Rıza (fotoğraf): *"Bu fotoğraf... Mehmet'in dükkânı bu."* · *"Sen Mehmet'in oğlusun. Nasıl görmedim?"* | Soru kapanır | Eski fotoğraf |
 | 5 | Milyarder ($1B, ~3. gün) | Personel: *"Şirketi siz almışsınız... Bizim işimiz ne olacak?"* · Kahraman: *"Hiçbir şey değişmiyor. Sadece maaşlar artıyor."* · Bülent Bey (şaşkın): *"Ya... ben?"* · Kahraman: *"Size de bir işim var, Bülent Bey."* · *"Annenizi de istediğiniz zaman arayabilirsiniz."* | Önsözdeki kovulma | Portreler |
 | 6 | Multimilyarder ($100B, ~7. gün) | Kahraman: *"Rıza Amca, atölyenin anahtarları. Artık senin."* · Rıza: *"Mehmet'le burayı yıllarca hayal ettik..."* · *"Gel evlat, ilk tahtayı birlikte keselim."* | Annenin "atölye" mesajı | Portreler (atölye görseli isteğe bağlı) |
 | 7 | Dünyanın En Zengini ($1T, ~11. gün) | Kahraman: *"Sana bir saray sözü vermiştim anne."* · *"Bir de pasta getirdim. Biraz geç kaldı."* · Anne (ağlayan-mutlu): *"Ah oğlum... Sen bana hep yettin."* | Söz, pasta, "sen bana yetersin" | Portreler; konak + pasta görseli bekliyor |

diff --git a/docs/art-prompts-v2.md b/docs/art-prompts-v2.md
@@ -14,7 +14,7 @@ Her komut GPT'ye olduğu gibi yapıştırılır; stil paragrafı içinde. Üreti
 
 - **Ev 1 Çadır: kalıyor.** Önünde yalnızca bisiklet ve skuter durur, araba gelmez; derin zemin gerekmiyor. Sahnede artık aynalanmıyor: çadır sağda açıkta, kahraman biraz sağda, Şans çadırın önünde, iki teker solda ve önü sola (ön yüzü açıkta, arkası kahramanın arkasında; 2026-10-12) (`HOME_ART` `home-1`).
 - **Ev 2–5: oyunda (2026-10-12).** Minibüs ve eski daire derin zeminle yeniden üretildi, kiralık oda ve yenice daire ilk kez; `public/assets/scene/home-2…5.webp`. Kapılar ortaya yakın çıktığı için kahraman bu dört evde %7 sağda durur (`HOME_ART` `castX`).
-- **Ev 6–12: oyunda (2026-10-12)**, `public/assets/scene/home-6…12.webp`. Ev 7 yeniden üretilmeli: ev %28–53 bandında kaldı, araba çatı dışında her şeyi kapatıyor (ev daha büyük ve yukarıda olmalı, çatı ~%18'e, kapı sol üçte birde). Ev 10 sınırda.
+- **Ev 6–12: oyunda (2026-10-12)**, `public/assets/scene/home-6…12.webp`. Ev 7 ikinci denemede oyunda (`home-7-first-house-layout-v2.png`: ev büyük, çatı ~%18'de, kapı sol üçte birde; ilki %28–53 bandında kalıp arabanın arkasında kayboluyordu). Ev 10 sınırda.
 
 **Evin yeri:** yakın evlerde (3–6) giriş kapısı görselin sol üçte birinde; uzak evlerde (7–12) ev ortanın biraz solunda. Araba sağda durur, burnu x %89'da.
 
